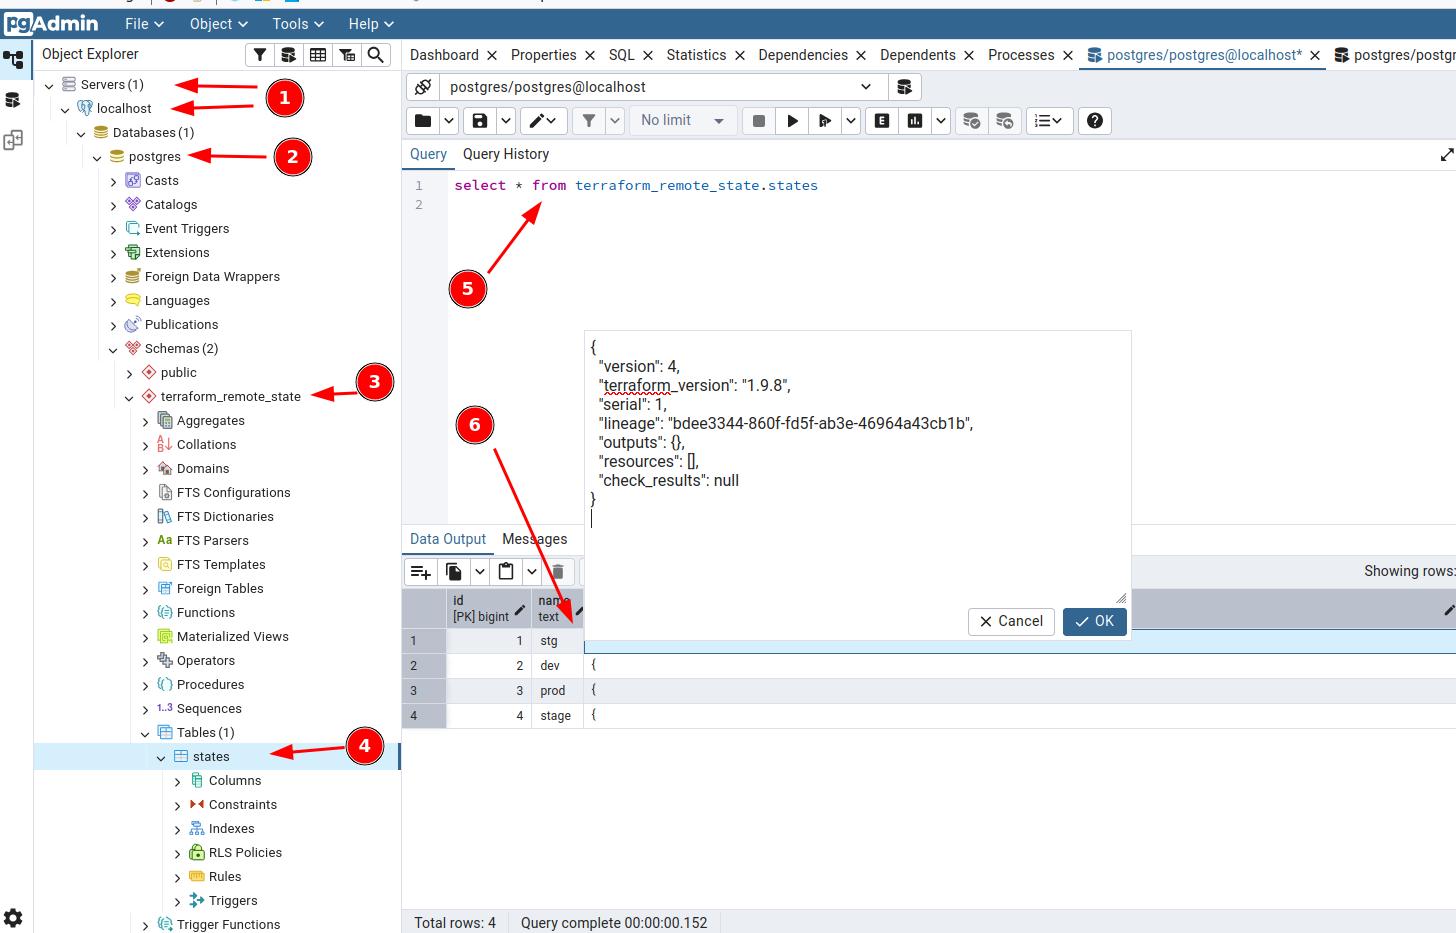
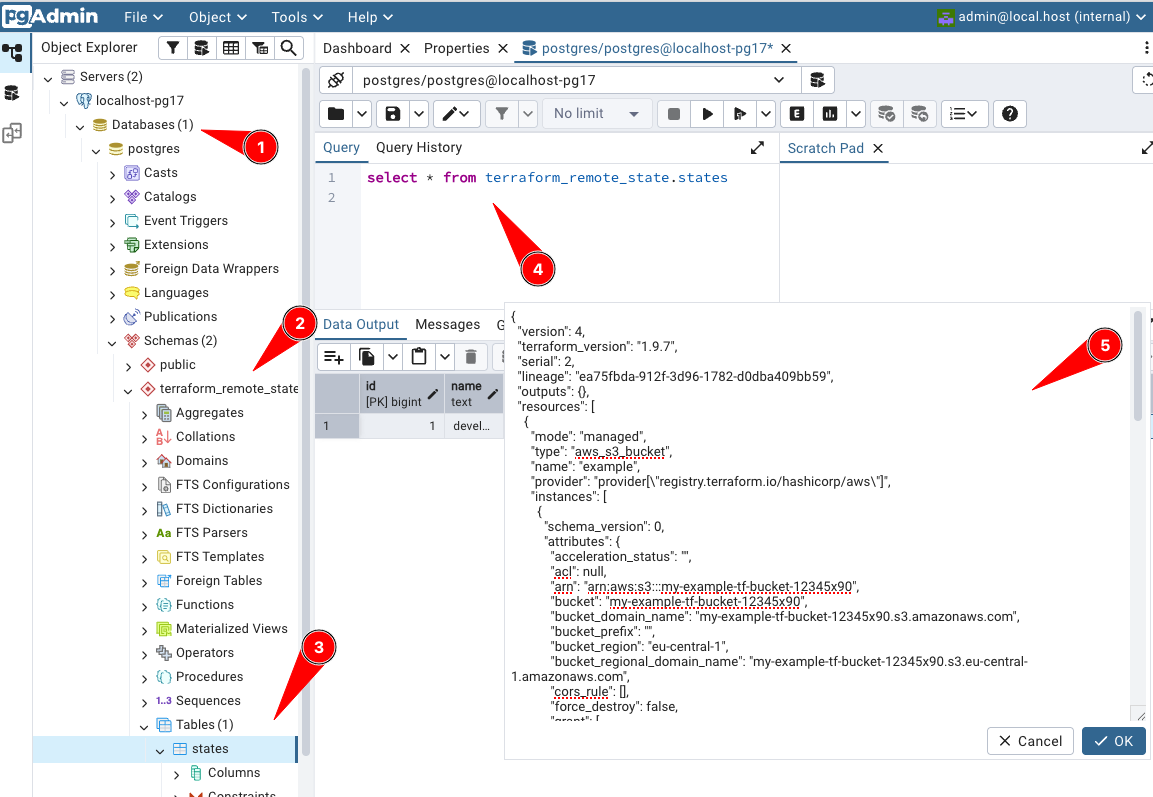
Update develop to main (#121)
* dependabot updates
* Update blog post example bucket name and variables
* cleanup and cosmetics

---------

diff --git a/content/blog/post011-terraform-workspaces-in-postgresql-backend/index.md b/content/blog/post011-terraform-workspaces-in-postgresql-backend/index.md
@@ -6,7 +6,7 @@ authors:
   - Mati: author.jpeg
 ---
 
-This blog post explores how to set up Terraform workspaces with a PostgreSQL backend to manage infrastructure across multiple environments (dev, stage, prod). Rather than relying on AWS S3 for state storage, we'll use PostgreSQL running in Docker, providing a lightweight local alternative that simplifies development workflows.
+This blog post explores how to set up Terraform workspaces with a PostgreSQL backend to manage infrastructure across multiple environments (develop, stage, prod). Rather than relying on AWS S3 for state storage, we'll use PostgreSQL running in Docker, providing a lightweight local alternative that simplifies development workflows.
 
 You'll learn how to configure Terraform providers for AWS and PostgreSQL, create some example boilerplate code, and manage different deployment environments using workspaces. This setup is ideal for teams looking to practice infrastructure-as-code principles with flexible state management while maintaining secure, versioned state files while having terraform enterprise experience.
 
@@ -18,7 +18,7 @@ You'll learn how to configure Terraform providers for AWS and PostgreSQL, create
 terraform-postgres-project/
 │
 ├── environments/
-│   ├── dev.tfvars
+│   ├── develop.tfvars
 │   ├── stage.tfvars
 │   └── prod.tfvars
 ├── main.tf
@@ -68,7 +68,7 @@ provider "postgresql" {
 
 ```hcl
 resource "aws_s3_bucket" "terraform_state" {
-  bucket = "my-terraform-state-bucket-${var.environment}"
+  bucket = "my-example-tf-bucket-12345x90-${var.environment}"
 
   lifecycle {
     prevent_destroy = true
@@ -100,13 +100,13 @@ resource "aws_s3_bucket_server_side_encryption_configuration" "encryption" {
 variable "region" {
   description = "AWS Region"
   type        = string
-  default     = "us-east-1"
+  default     = "eu-central-1"
 }
 
 variable "environment" {
   description = "Deployment environment"
   type        = string
-  default     = "dev"
+  default     = "develop"
 }
 
 ```
@@ -184,7 +184,7 @@ volumes:
 
 ```bash
 # Start PostgreSQL container
-docker-compose up -d 
+docker-compose up -d
 # alternatively
 podman-compose -f compose.yaml up
 
@@ -192,10 +192,10 @@ podman-compose -f compose.yaml up
 terraform init
 
 # Create S3 Bucket and Configure State Backend
-terraform workspace new dev
-terraform workspace select dev
+terraform workspace new develop
+terraform workspace select develop
 terraform plan
-terraform apply -var="environment=dev"
+terraform apply -var="environment=devevlop"
 
 # Switch between environments
 terraform workspace select stage
